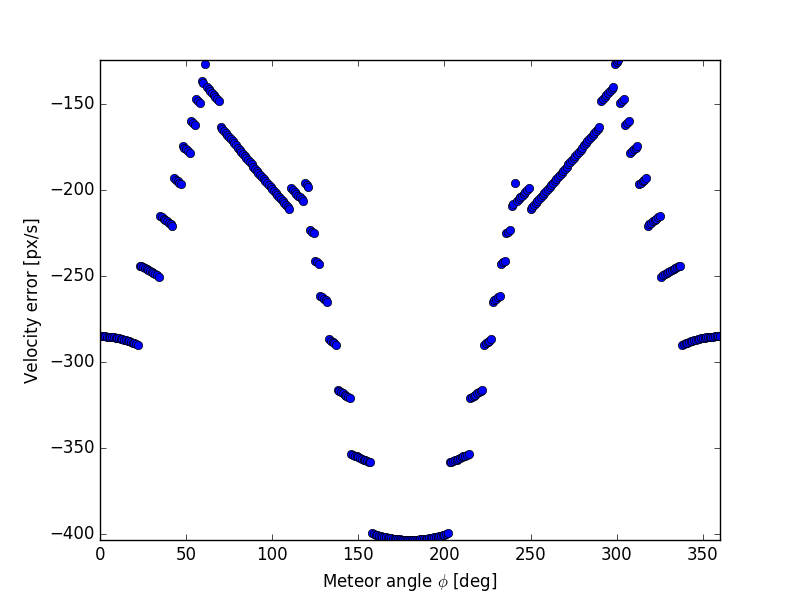
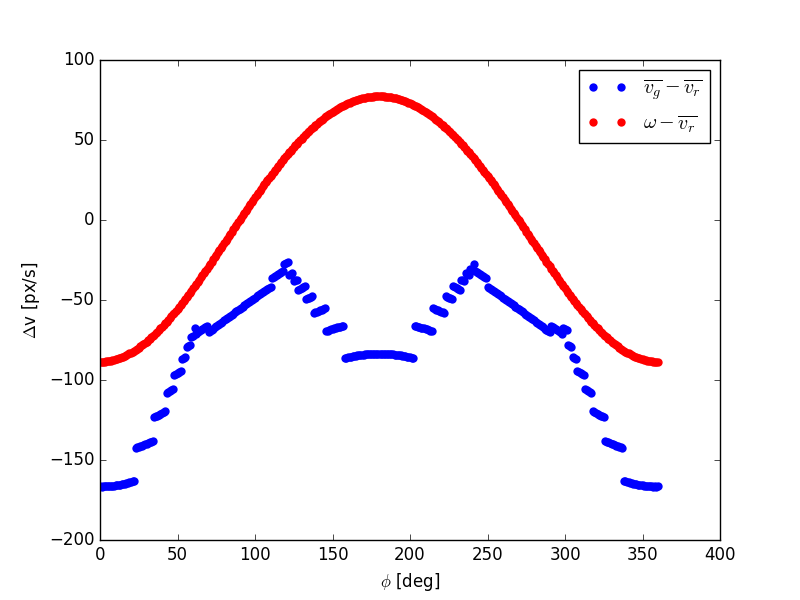
new velocity error plot

diff --git a/Source/VelocityErrorModel.py b/Source/VelocityErrorModel.py
@@ -1,14 +1,15 @@
 import SimulationTools as st 
 import Parameters as par
 import numpy as np
-import matplotlib.pyplot as plt
+# import matplotlib.pyplot as plt
 
 # Customized parameters
 show_plots = False
 
-# deltav_arr = []
+deltav_avg_arr = []
+deltav_true_arr = []
 
-phi_array = np.arange(0, 361, 10)
+phi_array = np.arange(0, 361)
 
 for phi in phi_array:
 
@@ -31,6 +32,29 @@ for phi in phi_array:
 
 	print('Generating data...')
 
+	n = len(time_coordinates)
+
+	total_time_rolling = time_coordinates[n - 1] - time_coordinates[0]
+	total_time_global = time_global_coordinates[n - 1] - time_global_coordinates[0]
+
+	total_r_rolling = st.centroidDifference(centroid_coordinates[n - 1], centroid_coordinates[0])
+	total_r_global = st.centroidDifference(centroid_global_coordinates[n - 1], centroid_coordinates[0])
+
+	avg_v_global = total_r_global / total_time_global
+	true_v_global = par.omega * par.scale
+	avg_v_rolling = total_r_rolling / total_time_rolling
+
+	print("Rolling avg. vel.: {:.2f}, global avg. vel.: {:.2f}, omega: {:.2f}".format(avg_v_rolling, avg_v_global, true_v_global))
+
+	delta_v_avg = avg_v_global - avg_v_rolling
+	delta_v_true = true_v_global - avg_v_rolling
+
+	deltav_avg_arr.append(delta_v_avg)
+	deltav_true_arr.append(delta_v_true)
+
+	print("Done!")
+
+	"""
 	delta_t = []
 	delta_r = []
 	delta_rc = []
@@ -60,8 +84,8 @@ for phi in phi_array:
 
 		delta_v.append(delta_r[i + 1] / delta_t[i + 1])
 		delta_vc.append(delta_rc[i + 1] / delta_t[i + 1])
-
-	print("Generating D/T graph...")
+	"""
+	# print("Generating D/T graph...")
 
 	# plt.plot(delta_t, delta_r, 'ro--', label = 'regular coordinates')
 	# plt.plot(delta_t, delta_rc, 'bo--', label = 'corrected coordinates')
@@ -76,21 +100,21 @@ for phi in phi_array:
 
 	# plt.show()
 
-	print('Generating V/T graph...')
+	# print('Generating V/T graph...')
 	
-	plt.plot(delta_t[1:], delta_v, 'ro--', label = 'regular velocity')
-	plt.plot(delta_t[1:], delta_vc, 'bo--', label = 'corrected velocity')
+	# plt.plot(delta_t[1:], delta_v, 'ro--', label = 'regular velocity')
+	# plt.plot(delta_t[1:], delta_vc, 'bo--', label = 'corrected velocity')
 
-	plt.xlabel('Time [s]')
-	plt.ylabel('Velocity [px/s]')
-	plt.title('Meteor angle $\phi$: {} [deg]'.format(phi))
-	plt.legend(loc = 'center right')
+	# plt.xlabel('Time [s]')
+	# plt.ylabel('Velocity [px/s]')
+	# plt.title('Meteor angle $\phi$: {} [deg]'.format(phi))
+	# plt.legend(loc = 'center right')
 	# plt.axis('tight')
 
-	plt.savefig('../Graphs/Velocity error/Velocity-time plots/plot_velocity_time_{}'.format(phi))
+	# plt.savefig('../Graphs/Velocity error/Velocity-time plots/plot_velocity_time_{}'.format(phi))
 
-	plt.show()
+	# plt.show()
 
 
 # Save data
-# np.savez('../Data/data_velocity_error.npz', *[par.phi_array, deltav_arr])
+np.savez('../Data/data_velocity_error.npz', *[par.phi_array, deltav_avg_arr, deltav_true_arr])

diff --git a/Source/VelocityErrorPlot.py b/Source/VelocityErrorPlot.py
@@ -6,13 +6,16 @@ data = np.load('../Data/data_velocity_error.npz')
 
 # Naming arrays for plotting
 phi_array = data['arr_0']
-deltav_arr = data['arr_1']
+deltav_avg_arr = data['arr_1']
+deltav_true_arr = data['arr_2']
 
 # Set plot
-plt.plot(phi_array, deltav_arr, 'o')
-plt.xlabel('Meteor angle $\phi$ [deg]')
-plt.ylabel("Velocity error [px/s]")
-plt.axis('tight')
+plt.plot(phi_array, deltav_avg_arr, 'bo', mew = 0, label = r'$\overline{v_g} - \overline{v_r}$')
+plt.plot(phi_array, deltav_true_arr, 'ro', mew = 0, label = r'$\omega - \overline{v_r}$')
+plt.xlabel('$\phi$ [deg]')
+plt.ylabel("$\Delta$v [px/s]")
+plt.legend(loc = 'upper right')
+# plt.axis('scaled')
 
 plt.savefig('../Graphs/velocity_error_graph.png')
 
